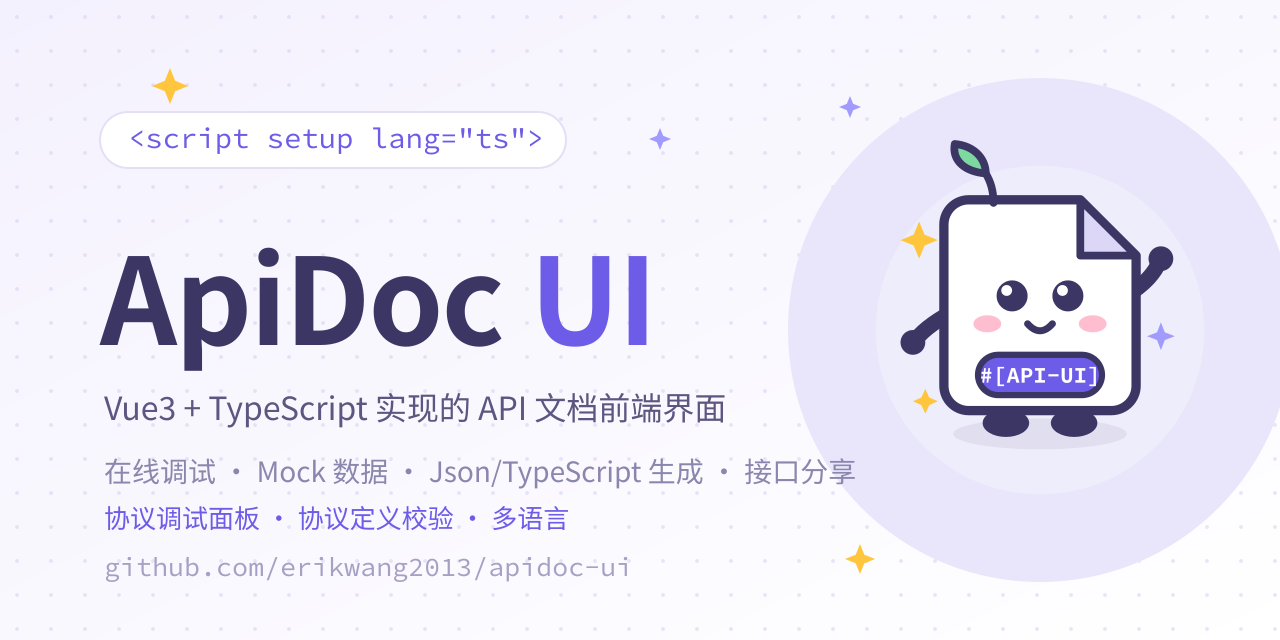
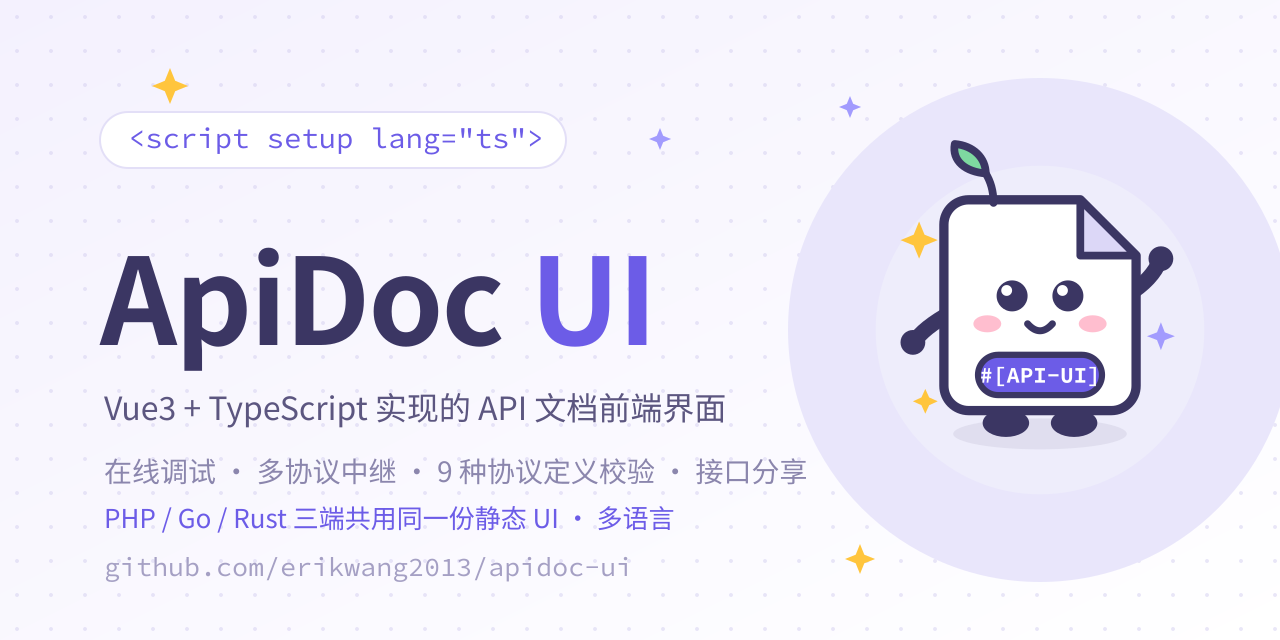
release: 3.4.0 (UIC-1 Phase 5)
- bump package.json/package-lock.json to 3.4.0 and add VERSION
- add release workflow: tag and GitHub Release from VERSION on main
- README: PHP/Go/Rust capability matrix, protocol debug, 9 definition
  formats, packaging/release docs and 3.4.0 badges
- add CHANGELOG 3.4.0 entry
- refresh social preview text and regenerate PNG at 1280x640
- document BACKEND in public/config.js; update upgrade guide to 3.4.0

Changed region(s): [[0.0625, 0.7188, 0.6875, 0.8438]]

diff --git a/public/config.js b/public/config.js
@@ -2,6 +2,8 @@
 window.apidocFeConfig = {
   // 标题
   TITLE: "Apidoc",
+  // 后端类型：auto（自动探测）| php | go | rust
+  // BACKEND: "auto",
   // 是否显示版本号（首页底部）
   SHOW_VERSION: true,
   // 缓存配置

diff --git a/CHANGELOG.md b/CHANGELOG.md
@@ -1,0 +1,31 @@
+# Changelog
+
+本项目记录所有值得注意的变更。格式参考 [Keep a Changelog](https://keepachangelog.com/zh-CN/1.1.0/)，
+版本号遵循语义化版本。
+
+## [3.4.0] - 2026-10-26
+
+### Added
+
+- UIC-1 适配器：启动时探测 `{API_PREFIX}/ui/v1/capabilities`，一套 Vue 构建自动适配
+  PHP / Go / Rust；未升级的 PHP 后端自动回退 legacy 适配器。
+- 全协议调试：HTTP/WebSocket/SSE 浏览器直连，另有 40+ 协议经后端中继（单次与流式，
+  按各后端实际编译能力显示入口）。
+- 9 种外部协议定义解析：OpenAPI、AsyncAPI、GraphQL、Proto、WSDL、EDMX、JSON Schema、
+  JSON-RPC、XML-RPC，统一输出定义、消息与校验结果。
+- UIC-1 管理能力：接口分享、缓存管理（PHP/Go 运行时，Rust 构建期）、声明式生成器与
+  代码模板，以及 Swagger/OpenAPI、Postman、AsyncAPI 导出。
+- 共享 UI 打包：`npm run package:ui` 生成 `dist/uic1-ui/` 与 `manifest.json`
+  （version / gitCommit / sha256），同一份包可部署到三端；附升级与回滚指南。
+- 发布流程：`VERSION` 文件与 `.github/workflows/release.yml`（push main 自动打 tag 并
+  创建 GitHub Release）。
+
+### Fixed
+
+- 配套后端协议中继与定义解析的安全加固：SSRF 目标校验、应用/分享作用域检查、
+  请求/响应/帧大小上限、TLS 版本下限、解析深度与体积上限，以及 DNP3 10,000 点、
+  IEC 104 10,000 行的解析行数硬上限。
+
+### Changed
+
+- README、升级指南、社交预览图对齐 3.4.0（UIC-1 Phase 5 完成，PHP / Go / Rust 三端）。

diff --git a/docs/superpowers/guides/2026-10-26-uic1-upgrade.md b/docs/superpowers/guides/2026-10-26-uic1-upgrade.md
@@ -53,7 +53,7 @@ manifest.json
 
 | 字段        | 含义                                                                 |
 | ----------- | -------------------------------------------------------------------- |
-| `version`   | 打包时 `package.json` 的版本（当前 3.3.0）                           |
+| `version`   | 打包时 `package.json` 的版本（当前 3.4.0）                           |
 | `name`      | 固定 `uic1-ui`                                                       |
 | `builtAt`   | **打包时间**（UTC，ISO 8601），不是资源构建时间                      |
 | `gitCommit` | **打包时** UI 仓库提交，未重新构建时不保证等于产物构建提交           |
@@ -215,7 +215,7 @@ s := apidoc.New(apidoc.Config{
 | Rust Vue UI              | 含 5R.1 的版本，`ui: UiMode::Vue` + `ui_path: Some(...)` | 同源，`HOSTS: []`             | `/apidoc/` 直接打开           |
 | Rust 原生 UI（回滚）     | `ui: UiMode::Native`（库默认）                      | 同源                               | 旧原生界面                    |
 
-当前基线：**apidoc-ui 3.3.0 / UIC-1 contract 1.0**。同一 major 内契约只做加法；
+当前基线：**apidoc-ui 3.4.0 / UIC-1 contract 1.0**。同一 major 内契约只做加法；
 UI 按能力降级，不按后端类型硬编码。后端发布版本以各自 CHANGELOG 为准。
 
 ## 7. 已知语义差异
